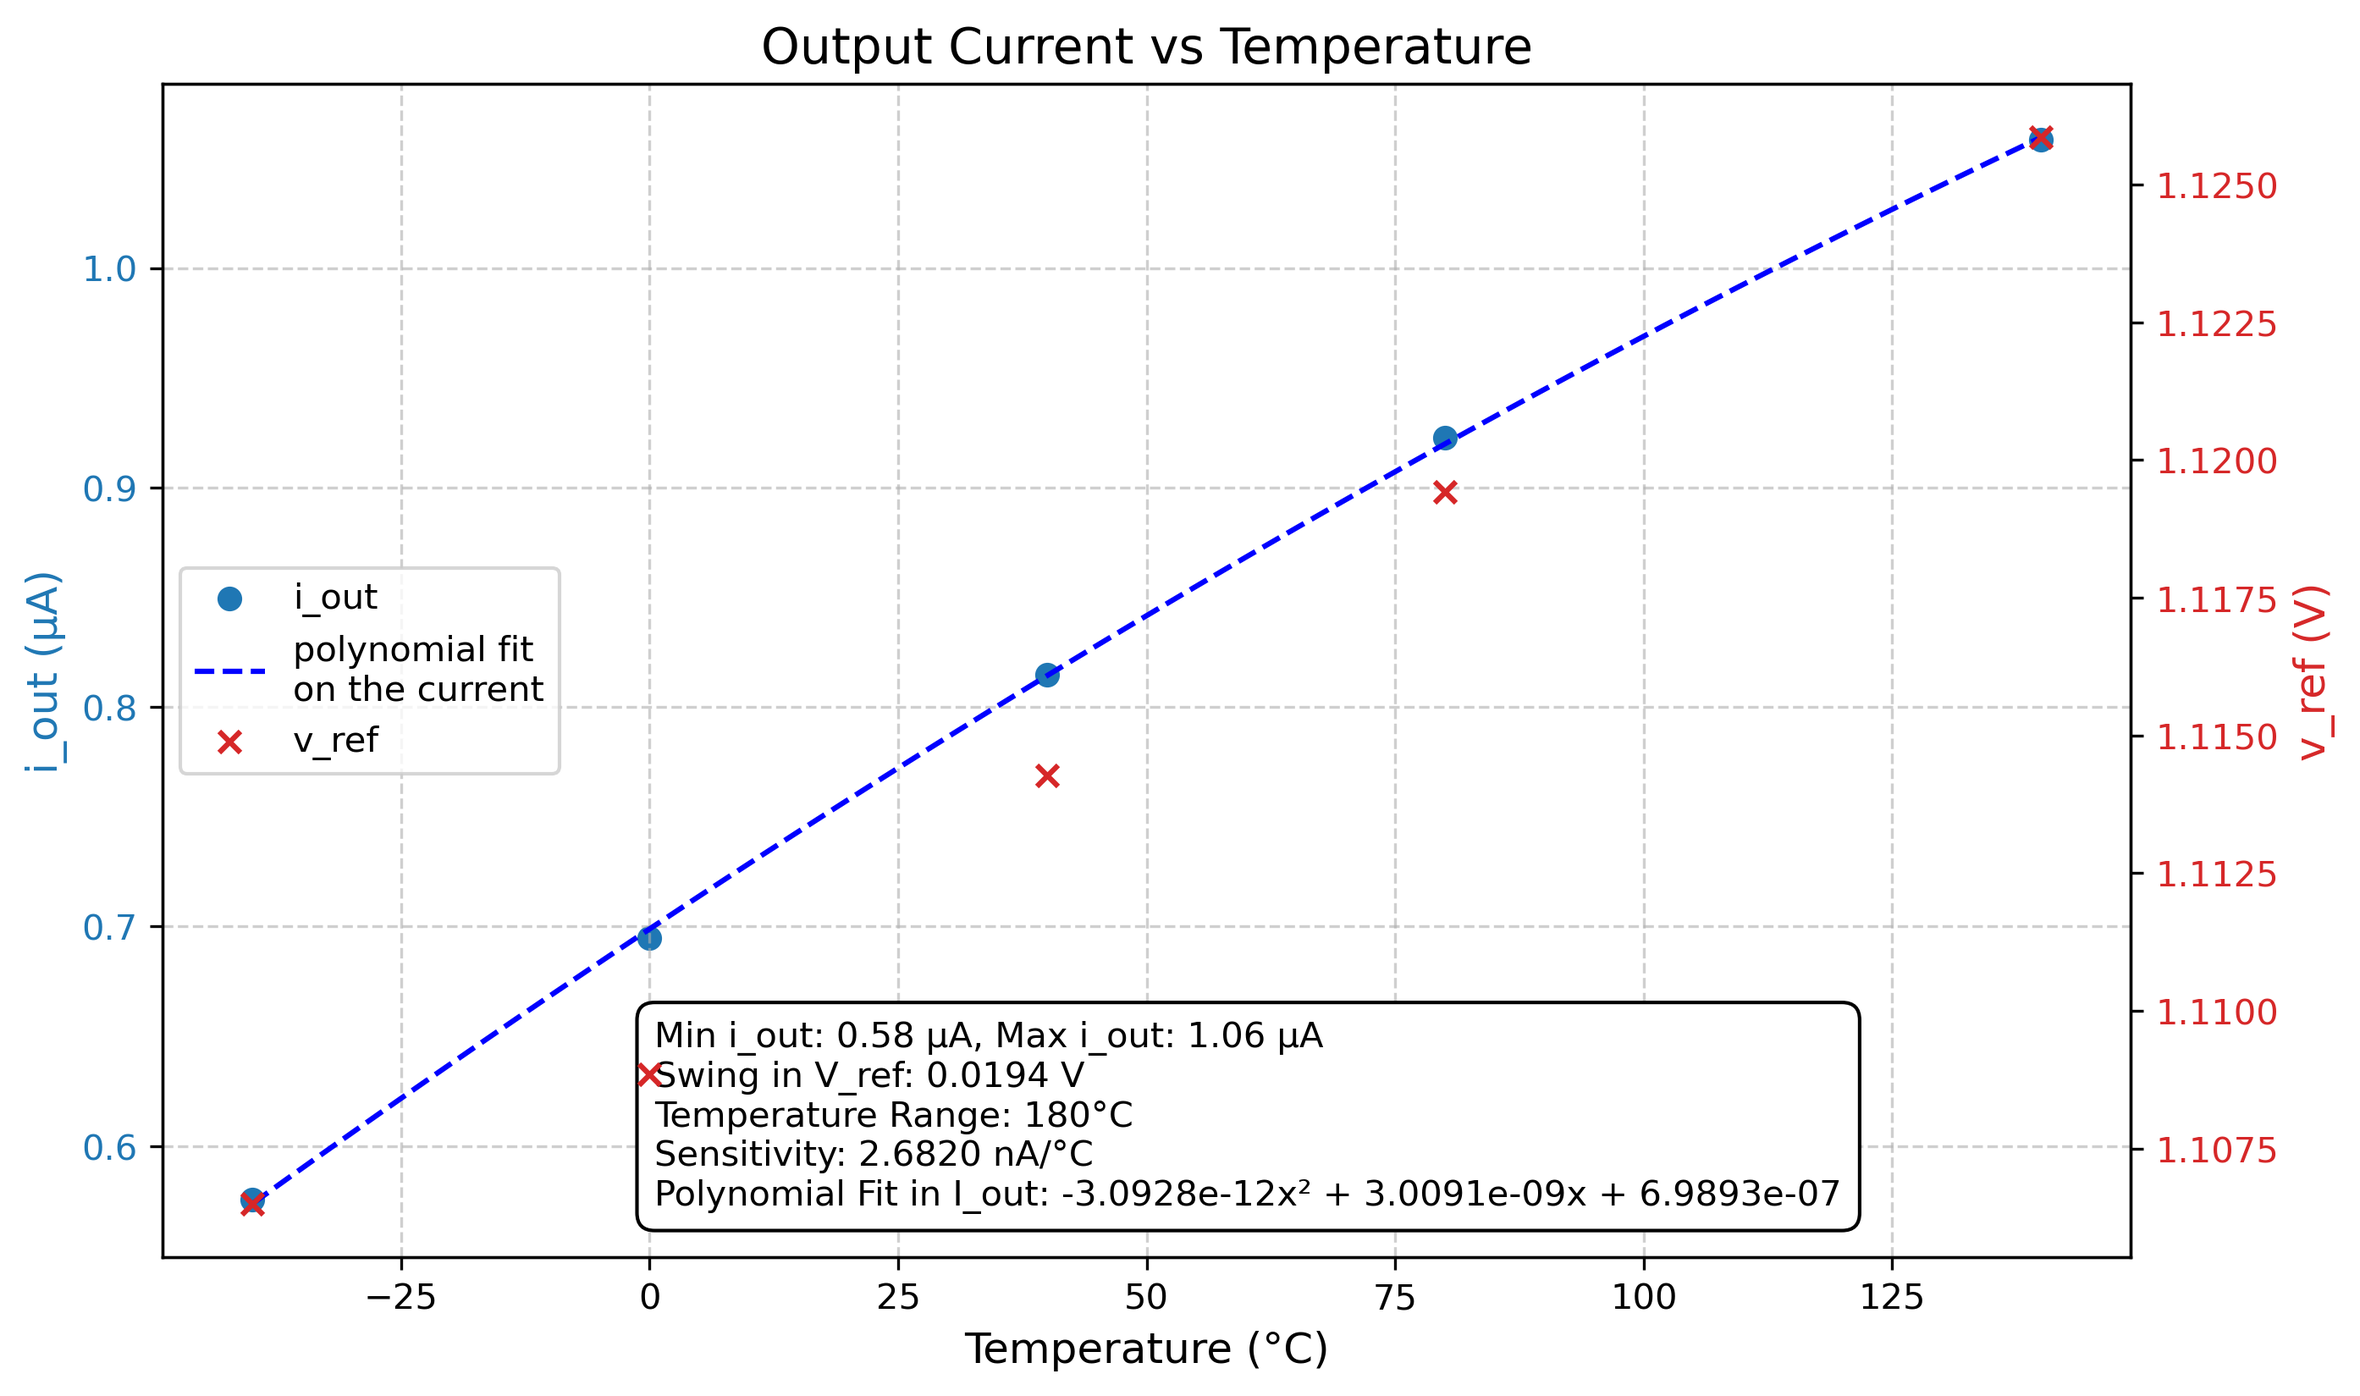
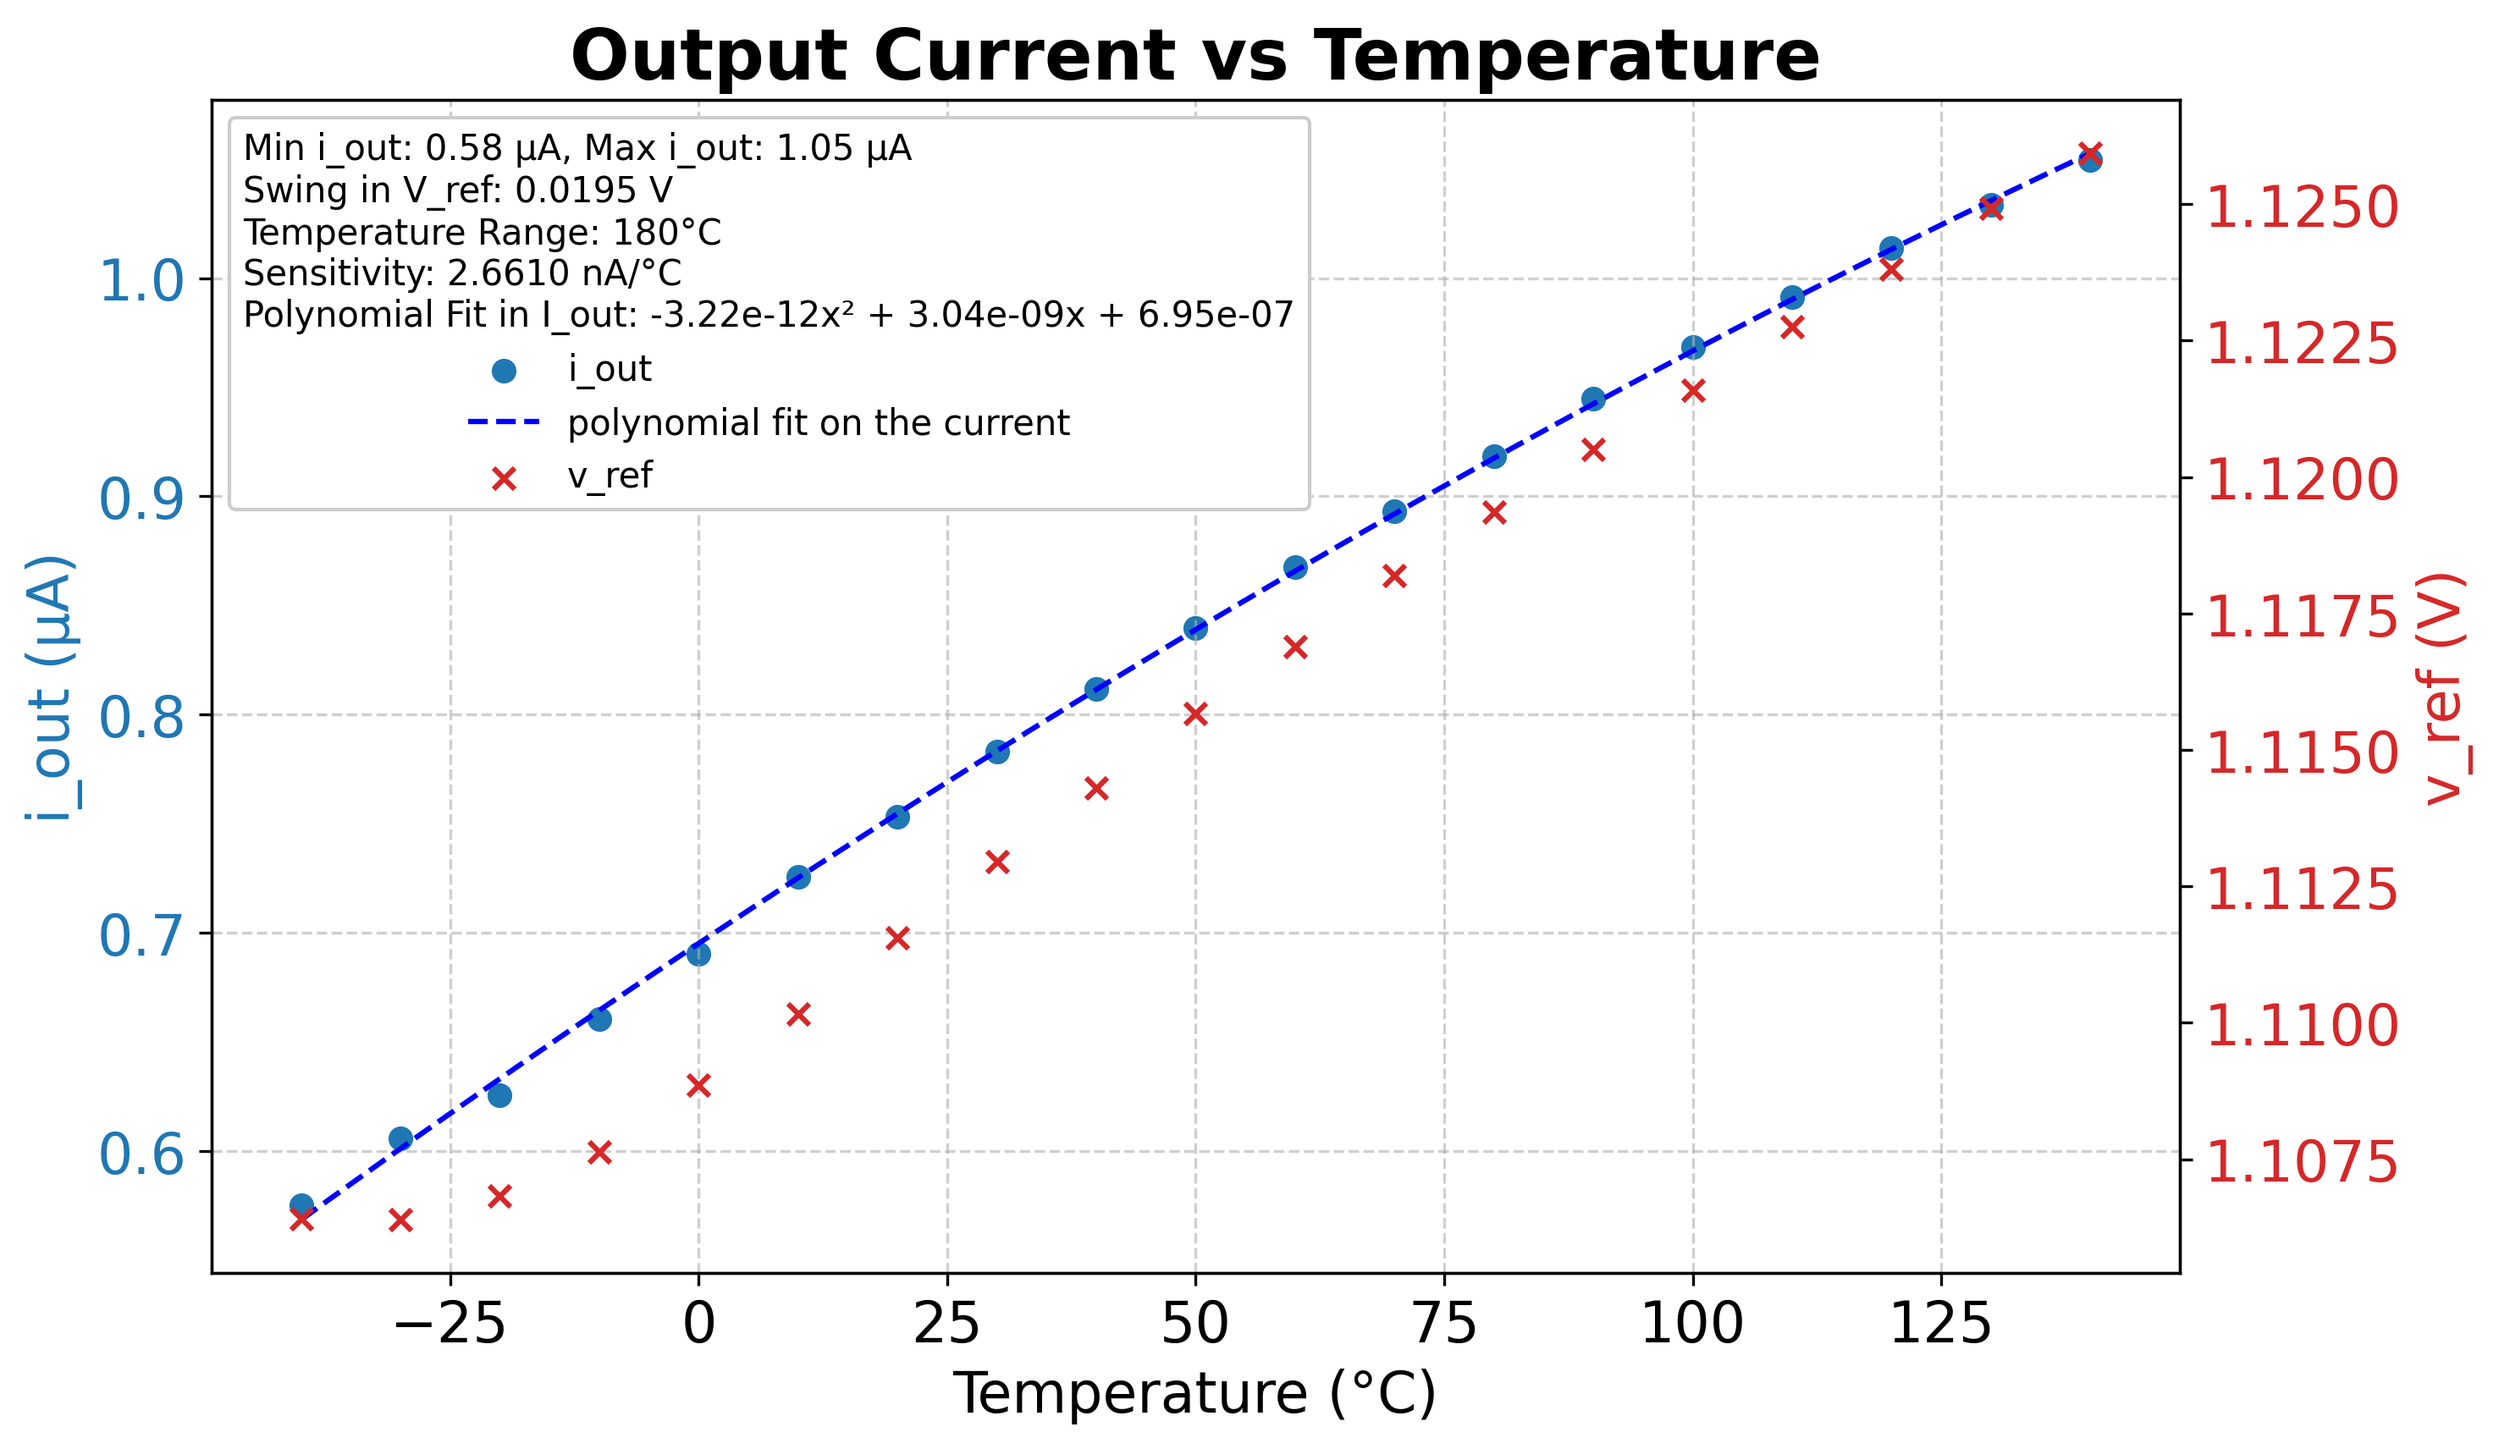
Automatischer Commit: 18:15:01

diff --git a/sim/JNW_GR05/tran.py b/sim/JNW_GR05/tran.py
@@ -30,35 +30,36 @@ def main(name="output_tran/tran_SchGtKttTtVt"):
     # Polynomial fitting
     poly_coeffs = np.polyfit(temperatures, i_out, 2)  # Quadratic fit
     poly_eq = np.poly1d(poly_coeffs)
-    poly_str = f"{poly_coeffs[0]:.4e}x² + {poly_coeffs[1]:.4e}x + {poly_coeffs[2]:.4e}"
+    # use scientific notation for polynomial coefficients with 2 decimal places
+    poly_str = f"{poly_coeffs[0]:.2e}x² + {poly_coeffs[1]:.2e}x + {poly_coeffs[2]:.2e}"
     
     # Create scatter plot with two Y-axes
     fig, ax1 = plt.subplots(figsize=(10, 6), dpi=150)
     ax1.grid(True, linestyle='--', alpha=0.6)  # Add grid
     
     # Scatter plot for i_out
-    ax1.set_xlabel('Temperature (°C)', fontsize=12)
-    ax1.set_ylabel('i_out (µA)', color='tab:blue', fontsize=12)
+    axes_fontsize = 16
+    ax1.set_xlabel('Temperature (°C)', fontsize=axes_fontsize)
+    ax1.set_ylabel('i_out (µA)', color='tab:blue', fontsize=axes_fontsize)
     ax1.scatter(temperatures, [i * 1e6 for i in i_out], color='tab:blue', label='i_out', marker='o')
-    ax1.tick_params(axis='y', labelcolor='tab:blue')
+    ax1.tick_params(axis='x', labelsize=axes_fontsize)
+    ax1.tick_params(axis='y', labelcolor='tab:blue', labelsize=axes_fontsize)
     
     # Scatter plot for v_ref
     ax2 = ax1.twinx()
-    ax2.set_ylabel('v_ref (V)', color='tab:red', fontsize=12)
+    ax2.set_ylabel('v_ref (V)', color='tab:red', fontsize=axes_fontsize)
     ax2.scatter(temperatures, v_ref, color='tab:red', label='v_ref', marker='x')
-    ax2.tick_params(axis='y', labelcolor='tab:red')
+    ax2.tick_params(axis='y', labelcolor='tab:red', labelsize=axes_fontsize)
     
     # Add polynomial fit <curve
     temp_range = np.linspace(min(temperatures), max(temperatures), 100)
-    ax1.plot(temp_range, [poly_eq(t) * 1e6 for t in temp_range], 'b--', label='polynomial fit \non the current')
+    ax1.plot(temp_range, [poly_eq(t) * 1e6 for t in temp_range], 'b--', label='polynomial fit on the current')
 
     # Title
-    plt.title('Output Current vs Temperature', fontsize=14)
+    plt.title('Output Current vs Temperature', fontsize=20, fontweight='bold')
     
-    # Legend
-    lines, labels = ax1.get_legend_handles_labels()
-    lines2, labels2 = ax2.get_legend_handles_labels()
-    ax2.legend(lines + lines2, labels + labels2, loc='center left')
+   
+    
     
     # Sensitivity calculation
     min_i_out, max_i_out = min(i_out) * 1e6, max(i_out) * 1e6
@@ -66,17 +67,21 @@ def main(name="output_tran/tran_SchGtKttTtVt"):
     temperature_range = max(temperatures) - min(temperatures)
     sensitivity = (max_i_out - min_i_out) / temperature_range * 1000 # from uA to nA)
     
-    # Annotation box
-    ax1.text(0.25, 0.12, 
-             f'Min i_out: {min_i_out:.2f} µA, Max i_out: {max_i_out:.2f} µA \n'
-             f'Swing in V_ref: {(max_vref - min_vref):.4f} V \n'
-             f'Temperature Range: {temperature_range}°C \n'
-             f'Sensitivity: {sensitivity:.4f} nA/°C \n'
-             f'Polynomial Fit in I_out: {poly_str}',
-             horizontalalignment='left', verticalalignment='center',
-             transform=ax1.transAxes, fontsize=10,
-             bbox=dict(facecolor='white', alpha=1, edgecolor='black', boxstyle='round,pad=0.5'))
+    # Legend
+    parameter_string = (
+        f'Min i_out: {min_i_out:.2f} µA, Max i_out: {max_i_out:.2f} µA\n'
+        f'Swing in V_ref: {(max_vref - min_vref):.4f} V\n'
+        f'Temperature Range: {temperature_range}°C\n'
+        f'Sensitivity: {sensitivity:.4f} nA/°C\n'
+        f'Polynomial Fit in I_out: {poly_str}'
+    )
     
+
+    lines, labels = ax1.get_legend_handles_labels()
+    lines2, labels2 = ax2.get_legend_handles_labels()
+    ax2.legend(lines + lines2, labels + labels2, loc='upper left', title = parameter_string, fontsize=10)
+    # not transparent
+    plt.gca().get_legend().get_frame().set_alpha(1.0)
     # Save and show plot
     output_file = 'output_vs_temperature.png'
     plt.savefig(output_file, dpi=300, bbox_inches='tight')
